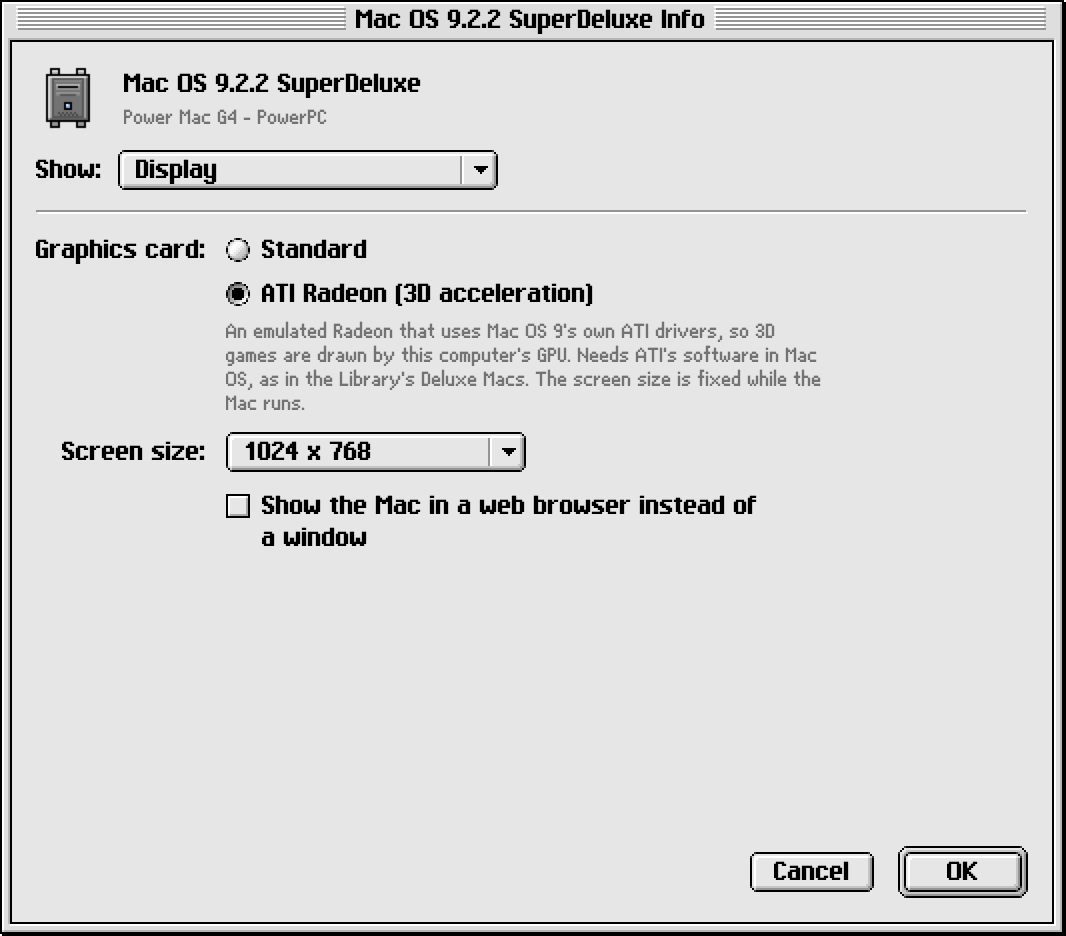
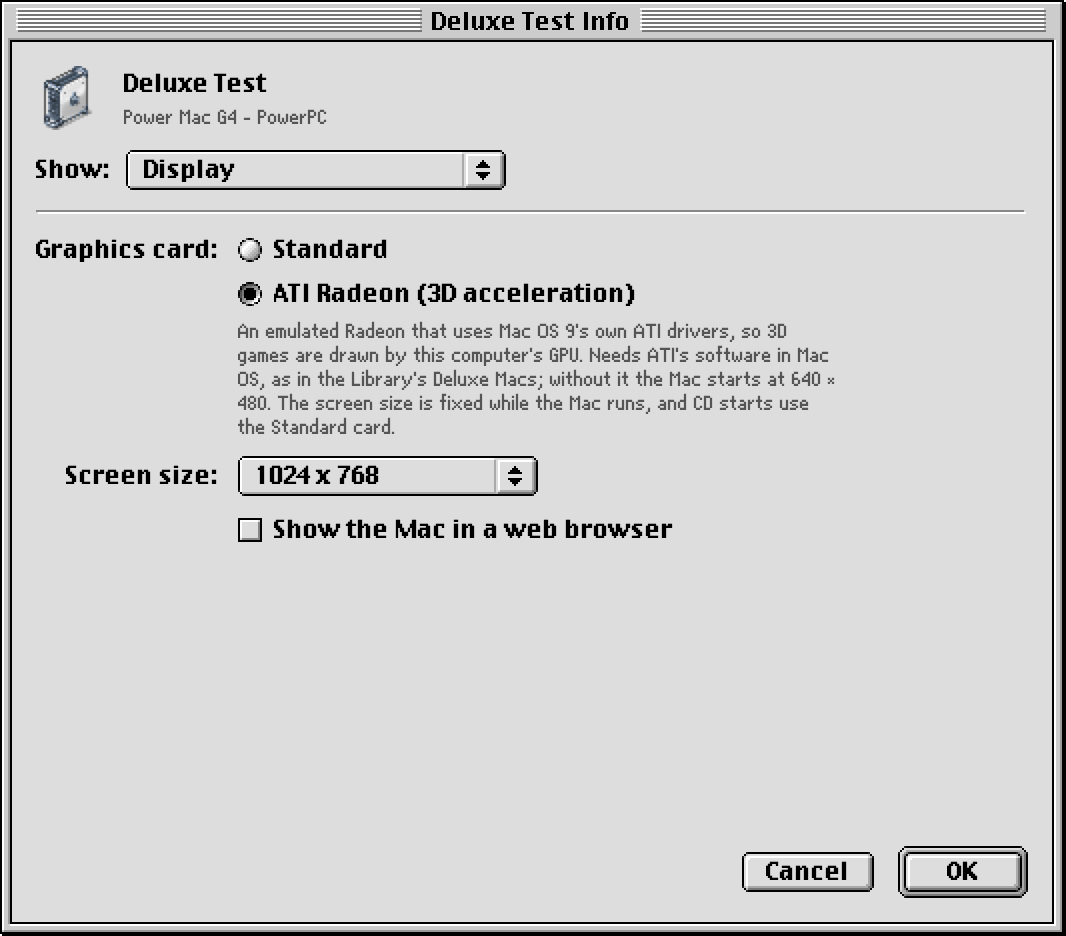
Document cross-platform release support and refresh Mac screenshots

Changed region(s): [[0.0, 0.0, 1.0, 1.0], [0.031, 0.2479, 0.7739, 0.5887], [0.6811, 0.8985, 0.9597, 0.9605]]

diff --git a/desktop/README.md b/desktop/README.md
@@ -1,72 +1,77 @@
-# ClassicMac for Windows
+# Windows and Linux desktop
 
-The Windows desktop front end uses the same `.classic` machine folders,
-bundled Iconfactory artwork, Platinum bitmap fonts, custom QEMU devices,
-PowerPC timing fixes, firmware and noVNC display client as the Mac app.
-It runs QEMU as a child process and controls it over a private stdin/stdout
-QMP channel. VNC is password protected and listens only on loopback.
+ClassicMac 4.1 uses native x64 QEMU engines and a shared Electron desktop on
+Windows 11 and Ubuntu 24.04+/Debian 13. Machine folders, Iconfactory artwork,
+bitmap fonts, firmware, timing fixes and custom devices are shared with the
+Mac edition. QMP uses private process pipes; the password-protected display
+listens only on loopback. The renderer is sandboxed with context isolation.
 
-This is the initial Windows implementation, separate from the macOS 4.0
-stable release. Power Mac G4 and Quadra 800 are supported by the code.
-Copland, integrated catalog downloads, host text paste and host folder
-sharing remain to be ported. The Library button explains the current import
-path. Settings changes require a stopped machine. Guest audio uses
-DirectSound; the ATI backend creates a WGL OpenGL 4.1 context on the renderer
-thread, with 3D off if the host driver cannot supply it. Full Windows guest
-boot/input/audio/game qualification is still required before a Windows release.
+Unzip the Windows download and run `ClassicMac.exe`, keeping its companion
+files. Windows binaries are unsigned. On Linux install the DEB with
+`sudo apt install ./ClassicMac-4.1.0-linux-amd64.deb`, or extract the tar.gz and
+run `classicmac`. The tar distribution requires a host with working Chromium
+sandboxing; the DEB installs the sandbox helper with its standard ownership.
+Linux builds require glibc 2.39 or newer and host desktop/audio libraries.
 
-## Run from source
+## Platform features
 
-Install Node.js, MSYS2 UCRT64 and the packages listed in
-`.github/workflows/windows.yml`. From the project root in UCRT64:
+Both editions provide Power Mac G4 and Quadra 800 machines, creation/import,
+Library downloads with resume and SHA-256 verification, settings, CD/floppy
+images, power controls and Mac US/MacRoman Paste Text. Import an existing
+`.classic` folder only after shutting it down on its original computer.
+Replace unavailable host-specific media paths in Get Info before starting.
+
+Linux supports classicvirtio 9p host folder sharing. Windows QEMU does not
+provide that backend, so folder sharing is unavailable there. Copland's
+Power Mac 7500 engine remains macOS-only. ATI 3D uses WGL OpenGL 4.1 on
+Windows and EGL/GLES 3 on Linux; hosts without a suitable graphics driver can
+use 3D off. Virtual-machine testing does not qualify physical GPU drivers,
+audio output or accelerated game compatibility. See the
+[qualification report](../docs/desktop-release-validation.md) for measured results.
+The shared CSS interface has not passed the native Mac Platinum pixel gate.
+
+Use guest Shut Down or the toolbar before quitting. A nonresponsive guest
+remains running until Force Off is explicitly confirmed.
+
+## Build and test
+
+Install Node 24, then the native dependencies in the matching workflow.
+Use MSYS2 UCRT64 on Windows and a supported Linux host on Linux:
 
 ```sh
+# Windows, from MSYS2 UCRT64
 desktop/scripts/build-engine.sh
+# Linux
+desktop/scripts/build-linux.sh
 ```
 
-Place the qualified `ClassicMacTools.iso` at
-`output/desktop/runtime/ClassicMacTools.iso` (the workflow obtains it from
-the pinned, checksum-verified Preview 3 ZIP). The QEMU build writes the rest
-of this runtime directory, including firmware, ROM and notices.
+Place the qualified `ClassicMacTools.iso` in `output/desktop/runtime/`.
+The workflows extract it from the checksum-pinned stable 4.0.0 ZIP.
 
 ```sh
 cd desktop
 npm ci
 npm test
 npm start
-npm run package:win
+npm run package:win    # on Windows
+npm run package:linux  # on Linux
 ```
 
-Set `CLASSICMAC_RUNTIME` to the absolute `output/desktop/runtime` path for a
-development launch. A packaged app finds `resources/runtime` automatically.
-Unzip the resulting distribution and run `ClassicMac.exe`; keep the files
-beside it. This initial build is unsigned. Do not publish it as a qualified
-Windows release until actual Windows guest tests and signing are complete.
+For development, set `CLASSICMAC_RUNTIME` to the absolute runtime directory.
+Packages automatically use `resources/runtime`. Native workflows retain the
+matching patched QEMU source. Linux staging bundles non-system ELF libraries
+and their copyright notices; glibc, desktop, audio and GPU drivers stay on
+the host. Corresponding sources accompany the published release.
 
-**Open Mac…** opens an existing `.classic` folder. Copy a machine after
-shutting it down on the Mac; Windows uses its disk in place. **New Mac…**
-creates a sparse raw disk. Choose your installation CD with **Media…** and
-start the Mac. Missing Mac-specific CD paths must be ejected or replaced in
-Get Info before startup. Existing machines are never automatically converted.
+`npm test` covers launch profiles, settings, path/symlink boundaries, bounded
+archive extraction, download resumption and paste planning/cancellation.
+`tests/smoke-desktop.cjs` boots a disposable checksum-pinned OS9 fixture and
+checks display, pause/resume, restart/reconnect and normal shutdown.
+`tests/proxmox-desktop.cjs` additionally checks real Library installation,
+MacRoman input in the native guest probe and Linux shared-file round trips.
+It requires an explicit disposable output directory and the Retro68-built
+`tests/guest` probe; it does not use an existing user machine.
 
-Use **Shut Down** in the guest or toolbar before quitting. A nonresponsive
-Mac stays running until **Force Off** is explicitly confirmed. Unsaved work
-can be lost with Force Off.
-
-## Development verification
-
-`npm test` checks launch profiles, installer safeguards, comma escaping,
-loopback/authenticated displays, settings bounds, explicit feature limits
-and prevention of package-path/symlink escapes. The Windows workflow builds
-both engines natively, probes devices/ATI realization, packages the desktop
-app, and retains runtime, matching QEMU source and ZIP artifacts.
-
-For a macOS development smoke test only, `CLASSICMAC_MAC_APP` can point to a
-qualified Mac app and `CLASSICMAC_RUNTIME` to its `Contents/Resources`.
-This exercises the same JavaScript launch/QMP/noVNC stack with native Mac
-engines; it does not qualify the Windows engines or WGL backend.
-
-The renderer uses a sandbox and context isolation, and all IPC handlers
-validate the sender against the single local application window, following
-[Electron’s security guidance](https://www.electronjs.org/docs/latest/tutorial/security/).
+IPC checks the sender against the sole local app window, following
+[Electron's security guidance](https://www.electronjs.org/docs/latest/tutorial/security/).
 No remote website receives filesystem or process APIs.

diff --git a/README.md b/README.md
@@ -5,13 +5,13 @@
 <h1 align="center">ClassicMac</h1>
 
 <p align="center">
-  <strong>The whole classic Mac OS era, running natively fast on Apple Silicon.</strong><br>
-  A self-contained macOS app that emulates a Motorola 68040 Quadra 800 and a PowerPC Power Mac G4<br>
-  on a custom build of QEMU — no setup, no terminal, nothing to install inside the guest.
+  <strong>The classic Mac OS era on macOS, Windows and Linux.</strong><br>
+  A self-contained desktop app that emulates a Motorola 68040 Quadra 800 and a PowerPC Power Mac G4<br>
+  on a custom build of QEMU, with the Apple Platinum appearance.
 </p>
 
 <p align="center">
-  <img src="https://img.shields.io/badge/platform-macOS%20(Apple%20Silicon)-black" alt="Platform">
+  <img src="https://img.shields.io/badge/platform-macOS%20%7C%20Windows%20%7C%20Linux-black" alt="Platform">
   <img src="https://img.shields.io/badge/guests-System%207.1%20–%20Mac%20OS%209.2.2-blueviolet" alt="Guest OS range">
   <img src="https://img.shields.io/badge/QEMU-11.0.2%20(custom)-orange" alt="QEMU">
   <img src="https://img.shields.io/badge/UI-Apple%20Platinum-lightgrey" alt="Apple Platinum interface">
@@ -21,12 +21,45 @@
 ---
 
 <p align="center">
-  <img src="docs/screenshots/platinum/running-ati.png" width="720" alt="ClassicMac 4.0 in the Apple Platinum appearance, with Mac OS 9.2.2 Deluxe running on the emulated ATI Radeon">
+  <img src="docs/screenshots/platinum/running-ati.png" width="720" alt="ClassicMac 4.1 in the Apple Platinum appearance, with Mac OS 9.2.2 Deluxe running on the emulated ATI Radeon">
 </p>
 
 <p align="center">
   <img src="docs/screenshots/quadra800-macos81.png" width="410" alt="Mac OS 8.1 on the emulated Quadra 800">
   <img src="docs/screenshots/powermacg4-macos92.png" width="410" alt="Mac OS 9.2 on the emulated Power Mac G4">
+</p>
+
+## New in ClassicMac 4.1
+
+- **Windows and Linux desktop editions.** Native x64 QEMU runtimes and a shared
+  Platinum desktop front end, with `.classic` machine creation/import,
+  settings, CD/floppy images, power controls and an authenticated local display.
+- **The Library on every desktop.** Ready-to-run Mac OS 9 editions download
+  with pause/resume, exact size/SHA-256 checks and bounded archive extraction.
+- **Paste Text on every desktop.** Review plain text before typing it with the
+  Mac US keyboard layout; unsupported characters are rejected before typing.
+- **Linux folder sharing.** A selected host folder mounts through classicvirtio
+  9p. Windows does not provide this QEMU backend; Copland remains Mac-only.
+- **Reference-tested Platinum controls.** The Mac appearance corrects system
+  font widths, raw grays, pressed/disabled controls, popup arrows and title-box
+  artwork. [The audit](docs/platinum-fidelity-audit.md) documents the 32 control
+  references and 95 system glyphs, and the remaining whole-app fidelity gaps.
+
+| Download | Host | Install |
+| --- | --- | --- |
+| macOS DMG | Apple Silicon, macOS 15+ | Drag ClassicMac to Applications |
+| Windows ZIP | Windows 11, x64 | Extract and run `ClassicMac.exe`, keeping its companion files |
+| Linux DEB | Ubuntu 24.04+/Debian 13, x64 | Install the package with your package manager |
+| Linux tar.gz | Same Linux baseline | Extract and run `classicmac`; the host must support Chromium sandboxing |
+
+The [latest release](https://github.com/amcchord/ClassicMac/releases/latest)
+contains the applications, checksums and corresponding engine sources. The
+macOS app is Developer ID signed and notarized. Windows binaries are unsigned.
+See the [desktop build and platform support guide](desktop/README.md).
+
+<p align="center">
+  <img src="docs/screenshots/desktop/windows.png" width="410" alt="ClassicMac on Windows 11">
+  <img src="docs/screenshots/desktop/linux.png" width="410" alt="ClassicMac on Linux">
 </p>
 
 ## New in ClassicMac 4.0
@@ -37,8 +70,8 @@
   default-button ring that flashes when you press Return, beeping caution
   alerts, Platinum pop-up menus that open with the current item under the
   pointer, lavender lists and scroll bars, and the barber-pole progress bar.
-  One Mac pixel is one point, so on a Retina display nothing is ever
-  resampled. The look, fonts and icons are shared with RetroBoot through the
+  Control artwork uses one point per Mac pixel and is tested at 1× and
+  2×. Some SwiftUI text and other states still need fidelity work. The look, fonts and icons are shared with RetroBoot through the
   new `PlatinumKit` module, which also builds for iPad.
 - **Your Mac in a Platinum window.** Each running Mac's screen now appears
   in a ClassicMac Platinum window instead of QEMU's: sharp whole-number

diff --git a/THIRD_PARTY_NOTICES.md b/THIRD_PARTY_NOTICES.md
@@ -22,8 +22,8 @@ QEMU emulator as a whole is licensed under the GNU General Public License,
 version 2. Individual source and firmware files may carry compatible licenses,
 as described by QEMU's `LICENSE` file and their source headers.
 
-The exact corresponding source is reproducible from the ClassicMac 4.0.0
-source at <https://github.com/amcchord/ClassicMac/tree/v4.0.0>. The repository's
+The exact corresponding source is reproducible from the ClassicMac 4.1.0
+source at <https://github.com/amcchord/ClassicMac/tree/v4.1.0>. The repository's
 `scripts/build-qemu.sh` retrieves the pinned upstream QEMU 11.0.2 source and
 applies every ClassicMac modification stored in the repository.
 
@@ -108,3 +108,21 @@ and `platinum/icons/LICENSE-icons.txt`. System 12 printable ASCII uses the
 M5Tab-Macintosh screenshot-traced pixel recreation; the original Apple font
 program is not included. Iconfactory artwork has its own
 terms as described above.
+
+## Windows and Linux desktop distributions
+
+The shared desktop front end uses Electron (MIT), Chromium and Node.js.
+Their license notices and Electron's third-party license inventory accompany
+its runtime. QEMU corresponding-source archives accompany each platform's
+release. The Windows runtime stages its MSYS2 dependency license notices;
+the Linux runtime includes distribution copyright notices for its copied
+shared libraries. Linux glibc, graphics/audio drivers and EGL/GLES libraries
+are supplied by the host distribution. Linux builds target Ubuntu 24.04's
+glibc baseline; the Linux ATI backend uses EGL and OpenGL ES 3.
+
+Upstream Electron: <https://github.com/electron/electron>
+Upstream Node.js: <https://github.com/nodejs/node>
+Distribution library sources are available from the matching Ubuntu/MSYS2
+source-package repositories, identified by the bundled notices. Contact the
+ClassicMac maintainer for the corresponding library sources under the terms
+of those licenses. The application contains no additional guest OS disk.
